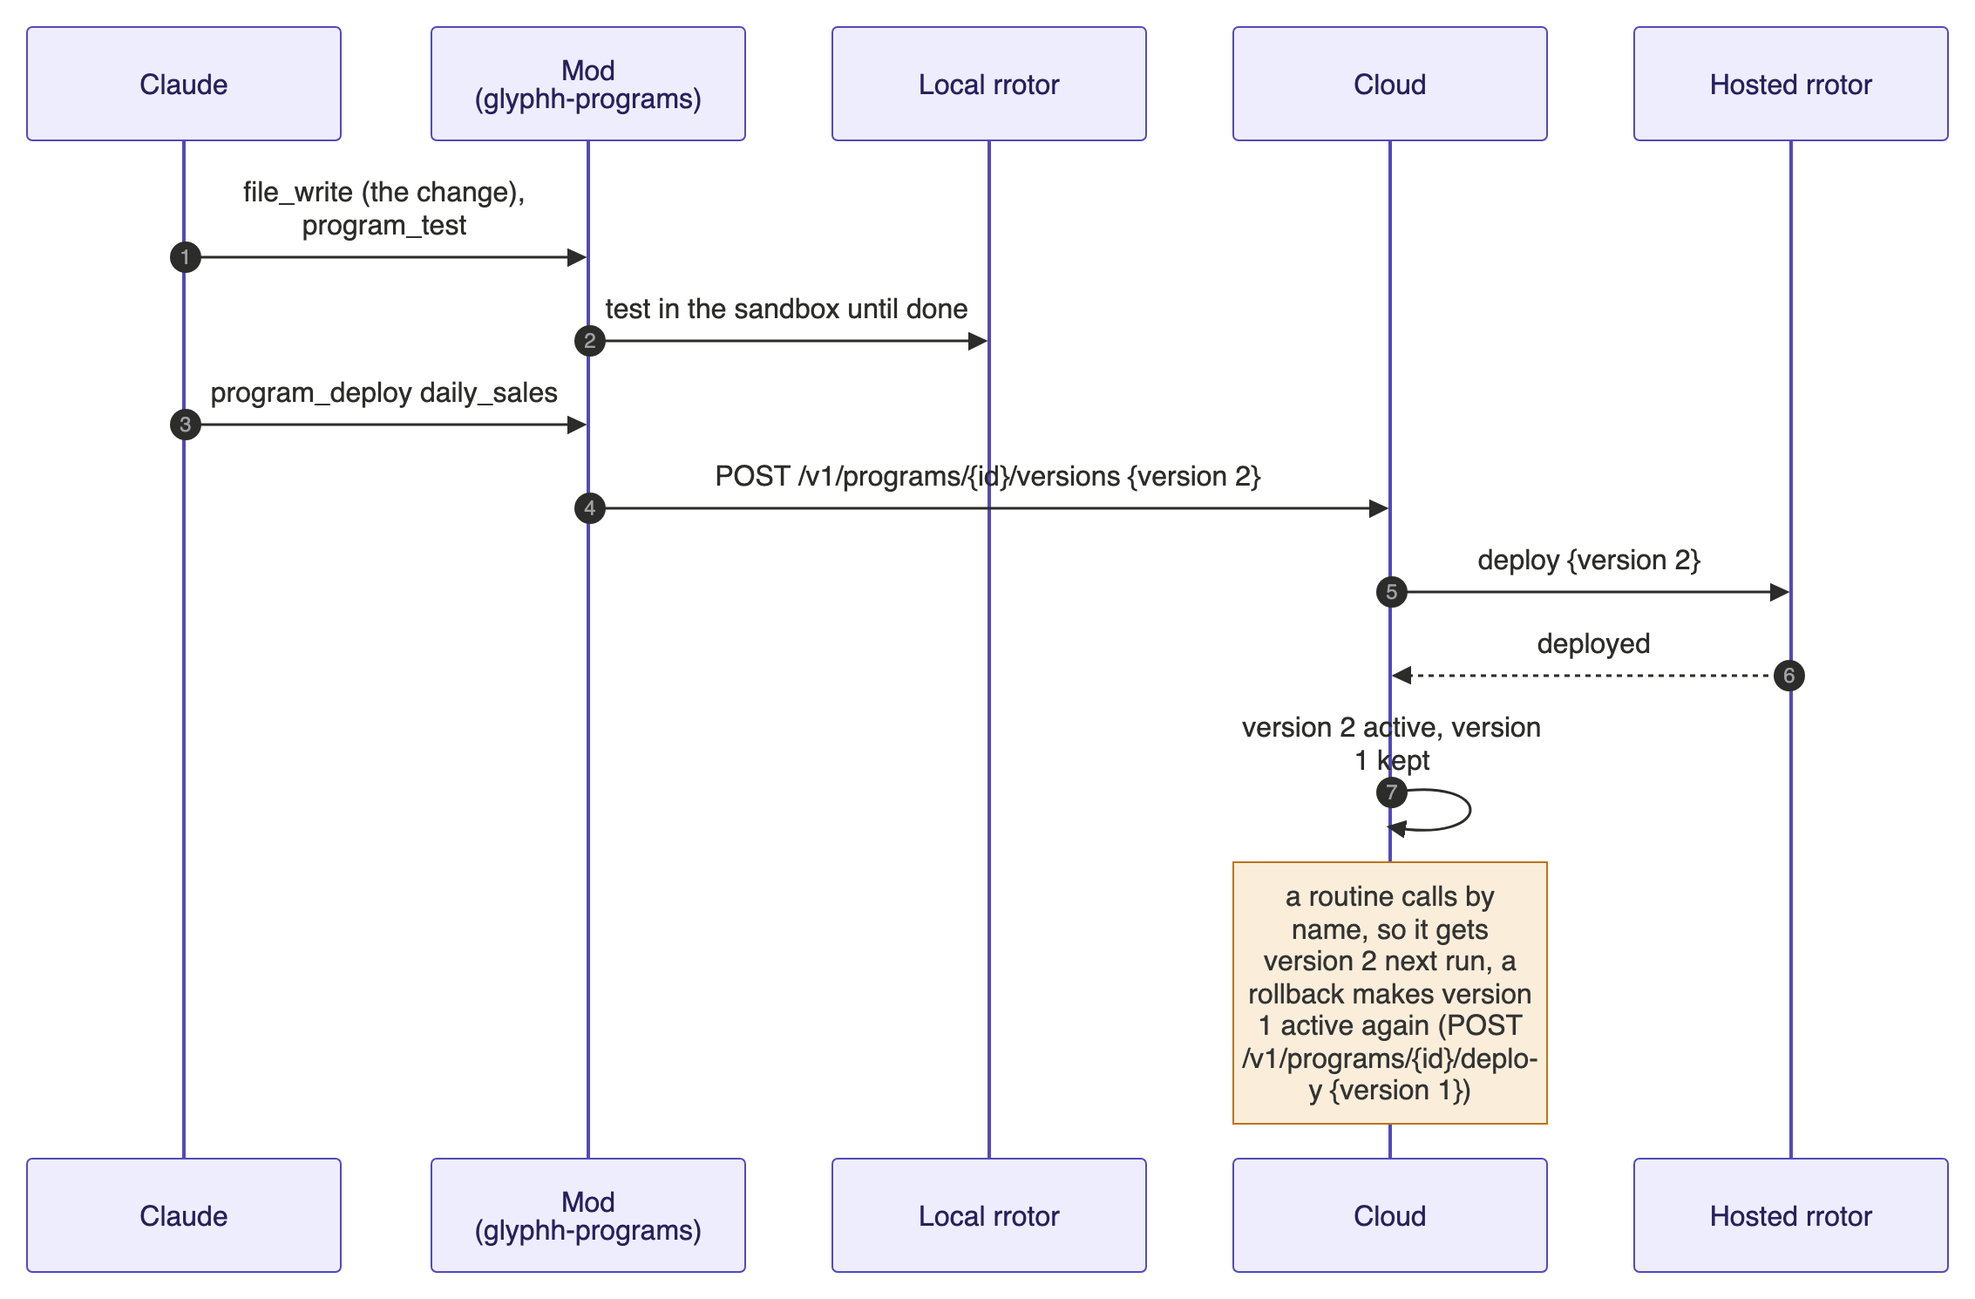
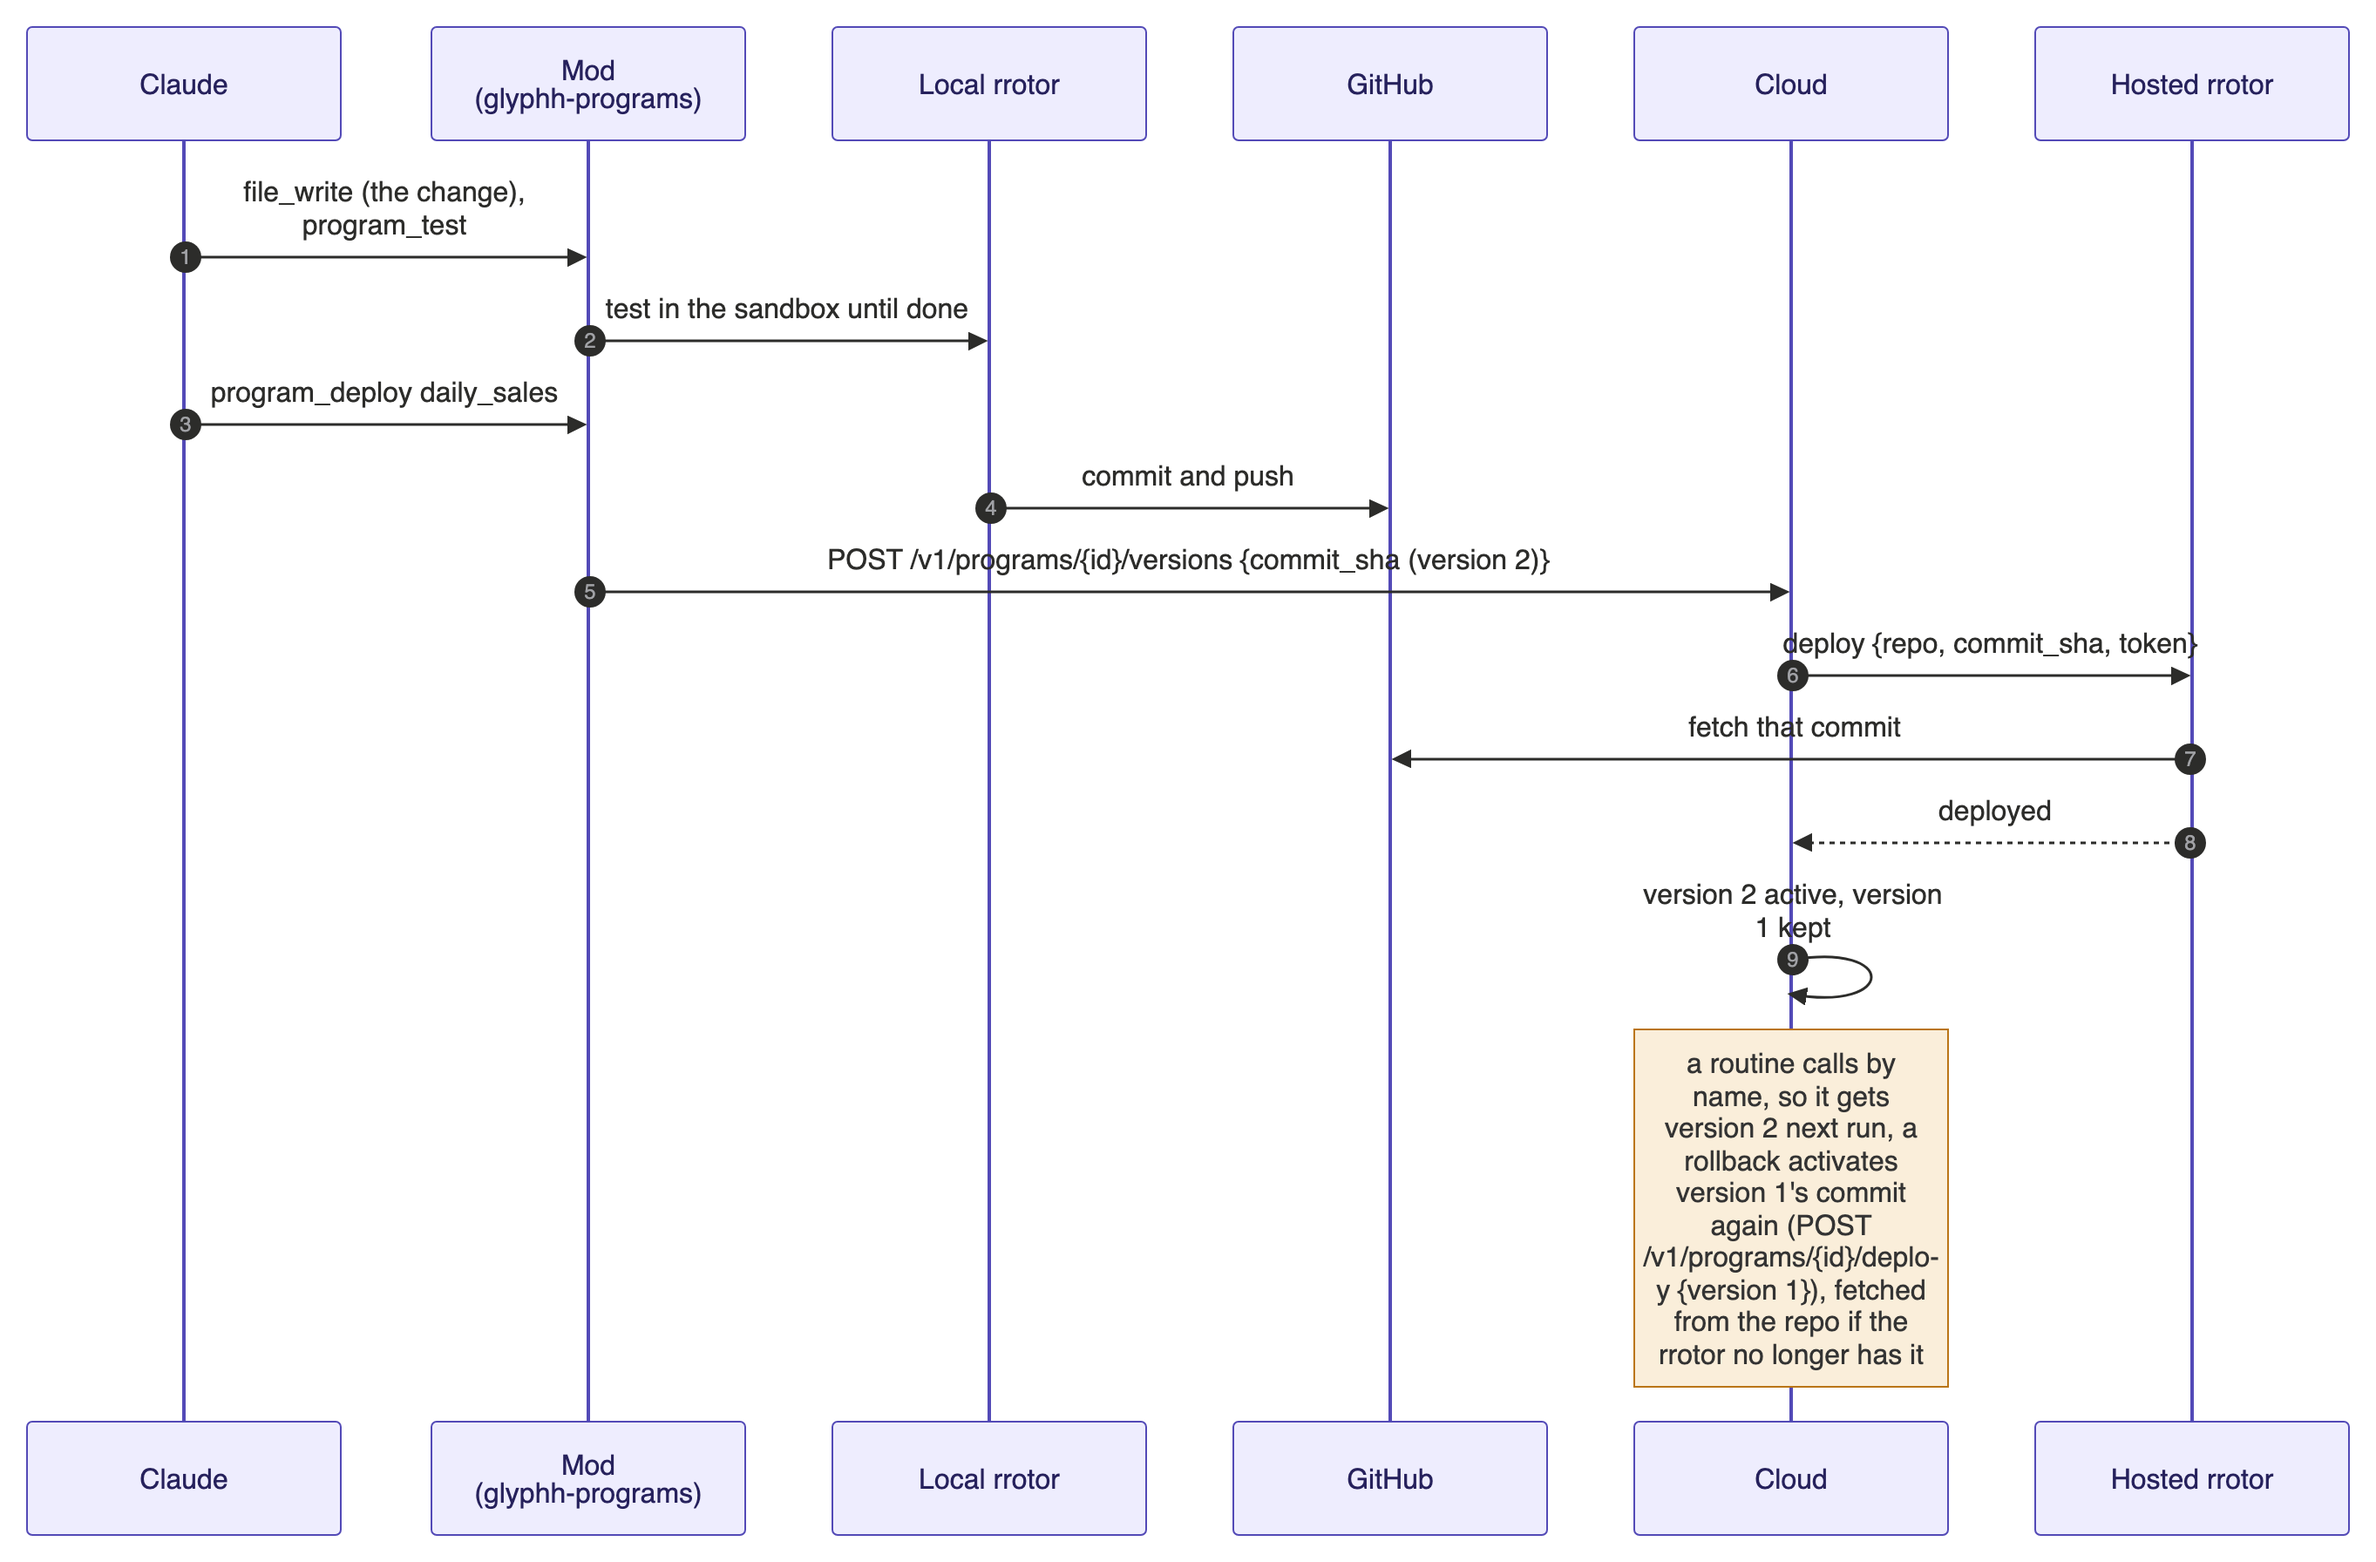
Architecture: deploys and updates through git (the Glyphh GitHub App); the server gaps settled in its design

diff --git a/docs/architecture.md b/docs/architecture.md
@@ -82,7 +82,7 @@ sequenceDiagram
     participant D as Docker / OrbStack / container
     participant R as Local rrotor
     participant G as Cloud
-    M->>G: POST /v1/runtime/local {install_id} (proposed)
+    M->>G: POST /v1/runtime/local {install_id}
     G-->>M: runtime_id, runtime token (shown once)
     M->>D: run ghcr.io/glyphh-ai/rrotor:#lt;version#gt; with volume /data, port 127.0.0.1:#lt;port#gt;, the runtime token
     D->>R: boot: s6 starts the runner (databases start on demand)
@@ -92,7 +92,7 @@ sequenceDiagram
     M->>R: local MCP on 127.0.0.1:#lt;port#gt; with a local token (proposed): the workspaces, RPA and programs tools
 ```
 
-**State:** designed (the local rrotor, the outbound link); proposed: how the local runtime gets its token and how the mods reach it (see [Open](#open)).
+**State:** designed (the local rrotor, its token, the outbound link); proposed: how the mods reach it (see [Open](#open)).
 
 ### 1.3 The hosted rrotor, on upgrading to Pro or Team
 
@@ -141,7 +141,7 @@ sequenceDiagram
     P->>A: Add custom connector: https://#lt;glyphh#gt;/mcp
     A->>G: OAuth dynamic client registration
     A->>G: GET /mcp/authorize (PKCE) → browser
-    G-->>P: sign in (Google / GitHub) and "Allow Claude to use your Glyphh?" (proposed page)
+    G-->>P: sign in (Google / GitHub) and "Allow Claude to use your Glyphh?" (the Allow page)
     P->>I: signs in
     P->>G: Allow
     G-->>A: authorization code → POST /mcp/token → access token
@@ -149,7 +149,7 @@ sequenceDiagram
     A->>G: /mcp tools/list: programs_list, call, continue, run_status, live panel
 ```
 
-**State:** designed (connector, OAuth endpoints, `connector_grants` table built); proposed: the Allow page.
+**State:** designed (connector, OAuth endpoints, the Allow page; `connector_grants` table built).
 
 - A grant is revoked one at a time; a revoked grant answers 401.
 - The Cloud never holds a Claude login: Claude runs on the person's subscription and calls Glyphh's tools.
@@ -214,7 +214,9 @@ sequenceDiagram
 
 **State:** designed (programs mod and local rrotor not built).
 
-### 2.2 Deploy: to the hosted rrotor, and the routine
+### 2.2 Deploy: to the hosted rrotor, through git, and the routine
+
+Each program is a repo in the person's GitHub account; a version is a commit. Git is required for hosted programs (the Glyphh GitHub App installed on their account); local programs need none.
 
 ![Deploy](img/seq-deploy.png)
 
@@ -224,21 +226,27 @@ sequenceDiagram
     participant C as Claude
     participant M as Mod (glyphh-programs)
     participant R as Local rrotor
+    participant GH as GitHub
     participant G as Cloud
     participant H as Hosted rrotor
     C->>M: program_deploy daily_sales
-    M->>R: cut version 1: bundle + manifest, content hash
-    M->>G: POST /v1/programs {name}, POST /v1/programs/{id}/versions {manifest, hash, bundle_ref}
-    G->>H: wake if stopped, link: deploy {program, version 1, bundle}
-    H->>H: /data/programs/daily_sales/1, its Postgres database and role
-    H-->>G: deployed
+    M->>R: commit the draft (secrets never committed: ignore rules and a pre-commit check)
+    R->>GH: git push to the program's repo (the person's GitHub)
+    R-->>M: commit SHA
+    M->>G: POST /v1/programs/{id}/versions {commit_sha, manifest}
+    G->>G: program_versions row (version 1 = that commit)
+    G->>GH: mint an installation token for that repo (Glyphh GitHub App, one hour)
+    G->>H: wake if stopped, link: deploy {program, repo, commit_sha, token}
+    H->>GH: fetch exactly that commit
+    H->>H: check the SHA, /data/programs/daily_sales/#lt;commit#gt;, install requirements.lock, its database and role
+    H-->>G: deployed {commit_sha}
     G->>G: deployments row (hosted rrotor, version 1, active)
     G-->>M: deployed
-    Note over H: the hosted rrotor has its own browser profiles: its first run that needs the site answers needs_signin, signed in once through the live panel (secrets are set on it the same way)
-    C->>C: create the routine (Claude's routines): "Every day at 7:07, run daily_sales and update my sales dashboard", Glyphh connector included
+    Note over H: the hosted rrotor has its own browser profiles and secrets: its first run that needs the site answers needs_signin, signed in once through the live panel, and secrets are set on it the same way
+    C->>C: create the routine (Claude's routines), its repo the program's, with the Glyphh connector included
 ```
 
-**State:** designed. (Local runs need no deploy: a local program runs where it was built.)
+**State:** designed.
 
 ### 2.3 Update
 
@@ -250,16 +258,19 @@ sequenceDiagram
     participant C as Claude
     participant M as Mod (glyphh-programs)
     participant R as Local rrotor
+    participant GH as GitHub
     participant G as Cloud
     participant H as Hosted rrotor
     C->>M: file_write (the change), program_test
     M->>R: test in the sandbox until done
     C->>M: program_deploy daily_sales
-    M->>G: POST /v1/programs/{id}/versions {version 2}
-    G->>H: deploy {version 2}
+    R->>GH: commit and push
+    M->>G: POST /v1/programs/{id}/versions {commit_sha (version 2)}
+    G->>H: deploy {repo, commit_sha, token}
+    H->>GH: fetch that commit
     H-->>G: deployed
     G->>G: version 2 active, version 1 kept
-    Note over G: a routine calls by name, so it gets version 2 next run, a rollback makes version 1 active again (POST /v1/programs/{id}/deploy {version 1})
+    Note over G: a routine calls by name, so it gets version 2 next run, a rollback activates version 1's commit again (POST /v1/programs/{id}/deploy {version 1}), fetched from the repo if the rrotor no longer has it
 ```
 
 **State:** designed.
@@ -347,7 +358,7 @@ sequenceDiagram
     participant G as Cloud
     participant A as Claude routine (Anthropic)
     H-->>G: event {program, kind: changed, data}
-    G->>A: POST /v1/claude_code/routines/#lt;id#gt;/fire {text: event JSON} (the person gave Glyphh this routine's trigger token)
+    G->>A: POST /v1/claude_code/routines/#lt;id#gt;/fire {text: event JSON} (the person gave Glyphh this routine's trigger)
     A->>A: reads the payload (its prompt says to act on it)
     A->>G: connector call(…) for the next step
 ```
@@ -442,7 +453,7 @@ flowchart TB
 |---|---|
 | `keys/runtime.key` | The runtime key (secrets at rest), made on first boot |
 | `runtime.json` | The runtime's id and token (0600) |
-| `programs/<name>/<version>/` | A deployed version: bundle and manifest, immutable |
+| `programs/<name>/<commit>/` | A deployed version: the checkout of that commit, its manifest and installed dependencies, immutable |
 | `programs/<name>/draft/` | The version being built (local) |
 | `programs/<name>/files/` | The program's own folder, the only one it sees |
 | `secrets/<name>.enc` | Its secrets, encrypted |
@@ -458,7 +469,7 @@ flowchart TB
 
 ### 5.1 What a program is
 
-A folder, the unit of a version:
+A git repo in the person's GitHub account; a version is a commit:
 
 | File | What |
 |---|---|
@@ -495,7 +506,7 @@ A folder, the unit of a version:
 - **`hosts`, `secrets`, `databases`, `profiles`:** everything a run may reach; nothing undeclared exists inside the sandbox.
 - **`limits`:** per run, capped by the plan.
 - **`connectors`:** the Claude connectors its routine needs (written into the routine, never used by the program).
-- A version is **immutable**: the manifest, `program.py`, the lock and its content hash.
+- A version is **immutable**: a commit, identified by its SHA.
 
 ### 5.3 The SDK: `glyphh`
 
@@ -552,8 +563,8 @@ JSON messages over the WebSocket `/v1/runtime/link`, one per frame, each with `t
 | Cloud → rrotor | `continue` | `run_id`, answer |
 | Cloud → rrotor | `cancel` | `run_id` |
 | rrotor → Cloud | `result` | `run_id`, `Result` (status, data), seconds so far |
-| Cloud → rrotor | `deploy` / `activate` / `remove` | program, version, bundle (by URL the rrotor fetches over HTTPS, hash checked) |
-| rrotor → Cloud | `deployed` | program, version, hash |
+| Cloud → rrotor | `deploy` / `activate` / `remove` | program, version, repo, commit SHA, a short-lived repo-scoped token (the rrotor fetches that commit from GitHub and checks the SHA) |
+| rrotor → Cloud | `deployed` | program, version, commit SHA |
 | Cloud → rrotor | `secret_set` | program, name, value encrypted to the rrotor's public key |
 | Cloud → rrotor | `live_open` / `live_close` | `run_id` or profile: start or stop frames |
 | rrotor → Cloud | `frame` | `run_id`, image (JPEG), sequence number |
@@ -577,7 +588,7 @@ The programs, workspaces and RPA mods call the local rrotor's MCP endpoint (`mod
 | `workspace_*` | Workspaces |
 | `profile_*`, `page_read`, `page_act`, `record_start`, `record_stop`, `site_save`, `sequence_save`, `run`, `log_read` | RPA |
 
-Deploying goes local rrotor → Cloud → hosted rrotor: the local rrotor uploads the version's bundle to the Cloud (`POST /v1/programs/{id}/versions`), which hands the hosted rrotor its URL.
+Deploying goes through git: the local rrotor pushes a commit to the program's repo, the Cloud records it (`POST /v1/programs/{id}/versions`) and hands the hosted rrotor the commit and a short-lived token to fetch it.
 
 ## 8. The server, checked
 
@@ -591,22 +602,22 @@ Every call above against what the server has (branch `relaunch`):
 | Tables: `rrotors`, `programs`, `program_versions`, `deployments`, `runs`, `approvals`, `connector_grants` | Built (tables only) |
 | `/v1/programs`, `/v1/runs`, `/v1/runtime`, `/v1/runtime/link`, `/mcp` and its OAuth | Designed, not built |
 
-### Server gaps
+### Settled in the server's design (2026-10-14)
 
-What the flows above need that the server's design does not have yet; settling them now keeps the infrastructure fixed when rrotor is built:
+What the flows needed that the server's design did not have; now in it, so the infrastructure stays fixed while rrotor is built:
 
-1. **`POST /v1/runtime/local`** (1.2): a runtime token for a local rrotor. Today `rrotors` is one hosted runtime per user (`user_id` unique): it needs a `mode` (`local` or `hosted`) and one row per mode per user (a local rrotor per install, keyed by `install_id`).
-2. **`routine_triggers`** (2.6): the person's routine triggers, `id`, `user_id`, `program_id` (nullable), `name`, `fire_url`, `token_enc`, `status`, `last_fired_at`, `created_at`; and `POST`/`DELETE /v1/routine-triggers`.
-3. **`program_events`** (2.6): what a program raised and whether it fired a routine (`session_url`).
-4. **Bundles** (5, 7): where a version's bundle is kept between the local and the hosted rrotor: object storage (R2) with a short-lived URL, or passed straight down the link.
-5. **Notifying the person** (2.5): push or email when an approval waits.
-6. **The connector's Allow page** (1.4).
-7. **`program_versions`** needs `hash` (the content hash); `bundle_ref` holds the storage key.
+1. **Local runtimes:** `POST /v1/runtime/local` gives a local rrotor its runtime token; `rrotors` has a `mode` (`hosted` or `local`) and a local one is keyed by its install.
+2. **Routine triggers:** `routine_triggers` (name, fire URL, token encrypted, status) and `/v1/routine-triggers`.
+3. **Program events:** `program_events` (kind, the routine trigger it fired, the session URL).
+4. **Versions through git:** each program a repo in the person's GitHub; `program_versions.commit_sha` is the version's identity; the Glyphh GitHub App's installation (`github_installations`) mints a short-lived token per deploy. No code is kept in Glyphh's cloud.
+5. **Approval email:** `approvals.notified_at`.
+6. **The connector's Allow page.**
+7. **No bundle storage:** `bundle_ref` is gone.
 
 ## Open
 
-- **The local rrotor's token and reach** (1.2): `POST /v1/runtime/local` for its runtime token; the mods reach it as a local MCP server on `127.0.0.1` with a local token. Or the mods go through the Cloud over the same link as the hosted one.
-- **The Allow page** for the connector's OAuth (1.4): one more server page, the only one besides the device page.
+- **How the mods reach the local rrotor** (1.2): a local MCP server on `127.0.0.1` with a local token (proposed), or through the Cloud over the same link as the hosted one.
 - **The live panel's transport:** frames over the link and the relay first; WebRTC end to end later.
 - **Secrets on the hosted rrotor:** set again there (2.2), or carried from the local one encrypted to the hosted rrotor's key.
+- **The Glyphh GitHub App's permissions:** repository contents (read and write, for the person's program repos) and metadata; the person picks which repos it may reach.
 - **Per-program isolation in Neo4j:** the free edition holds one database.
